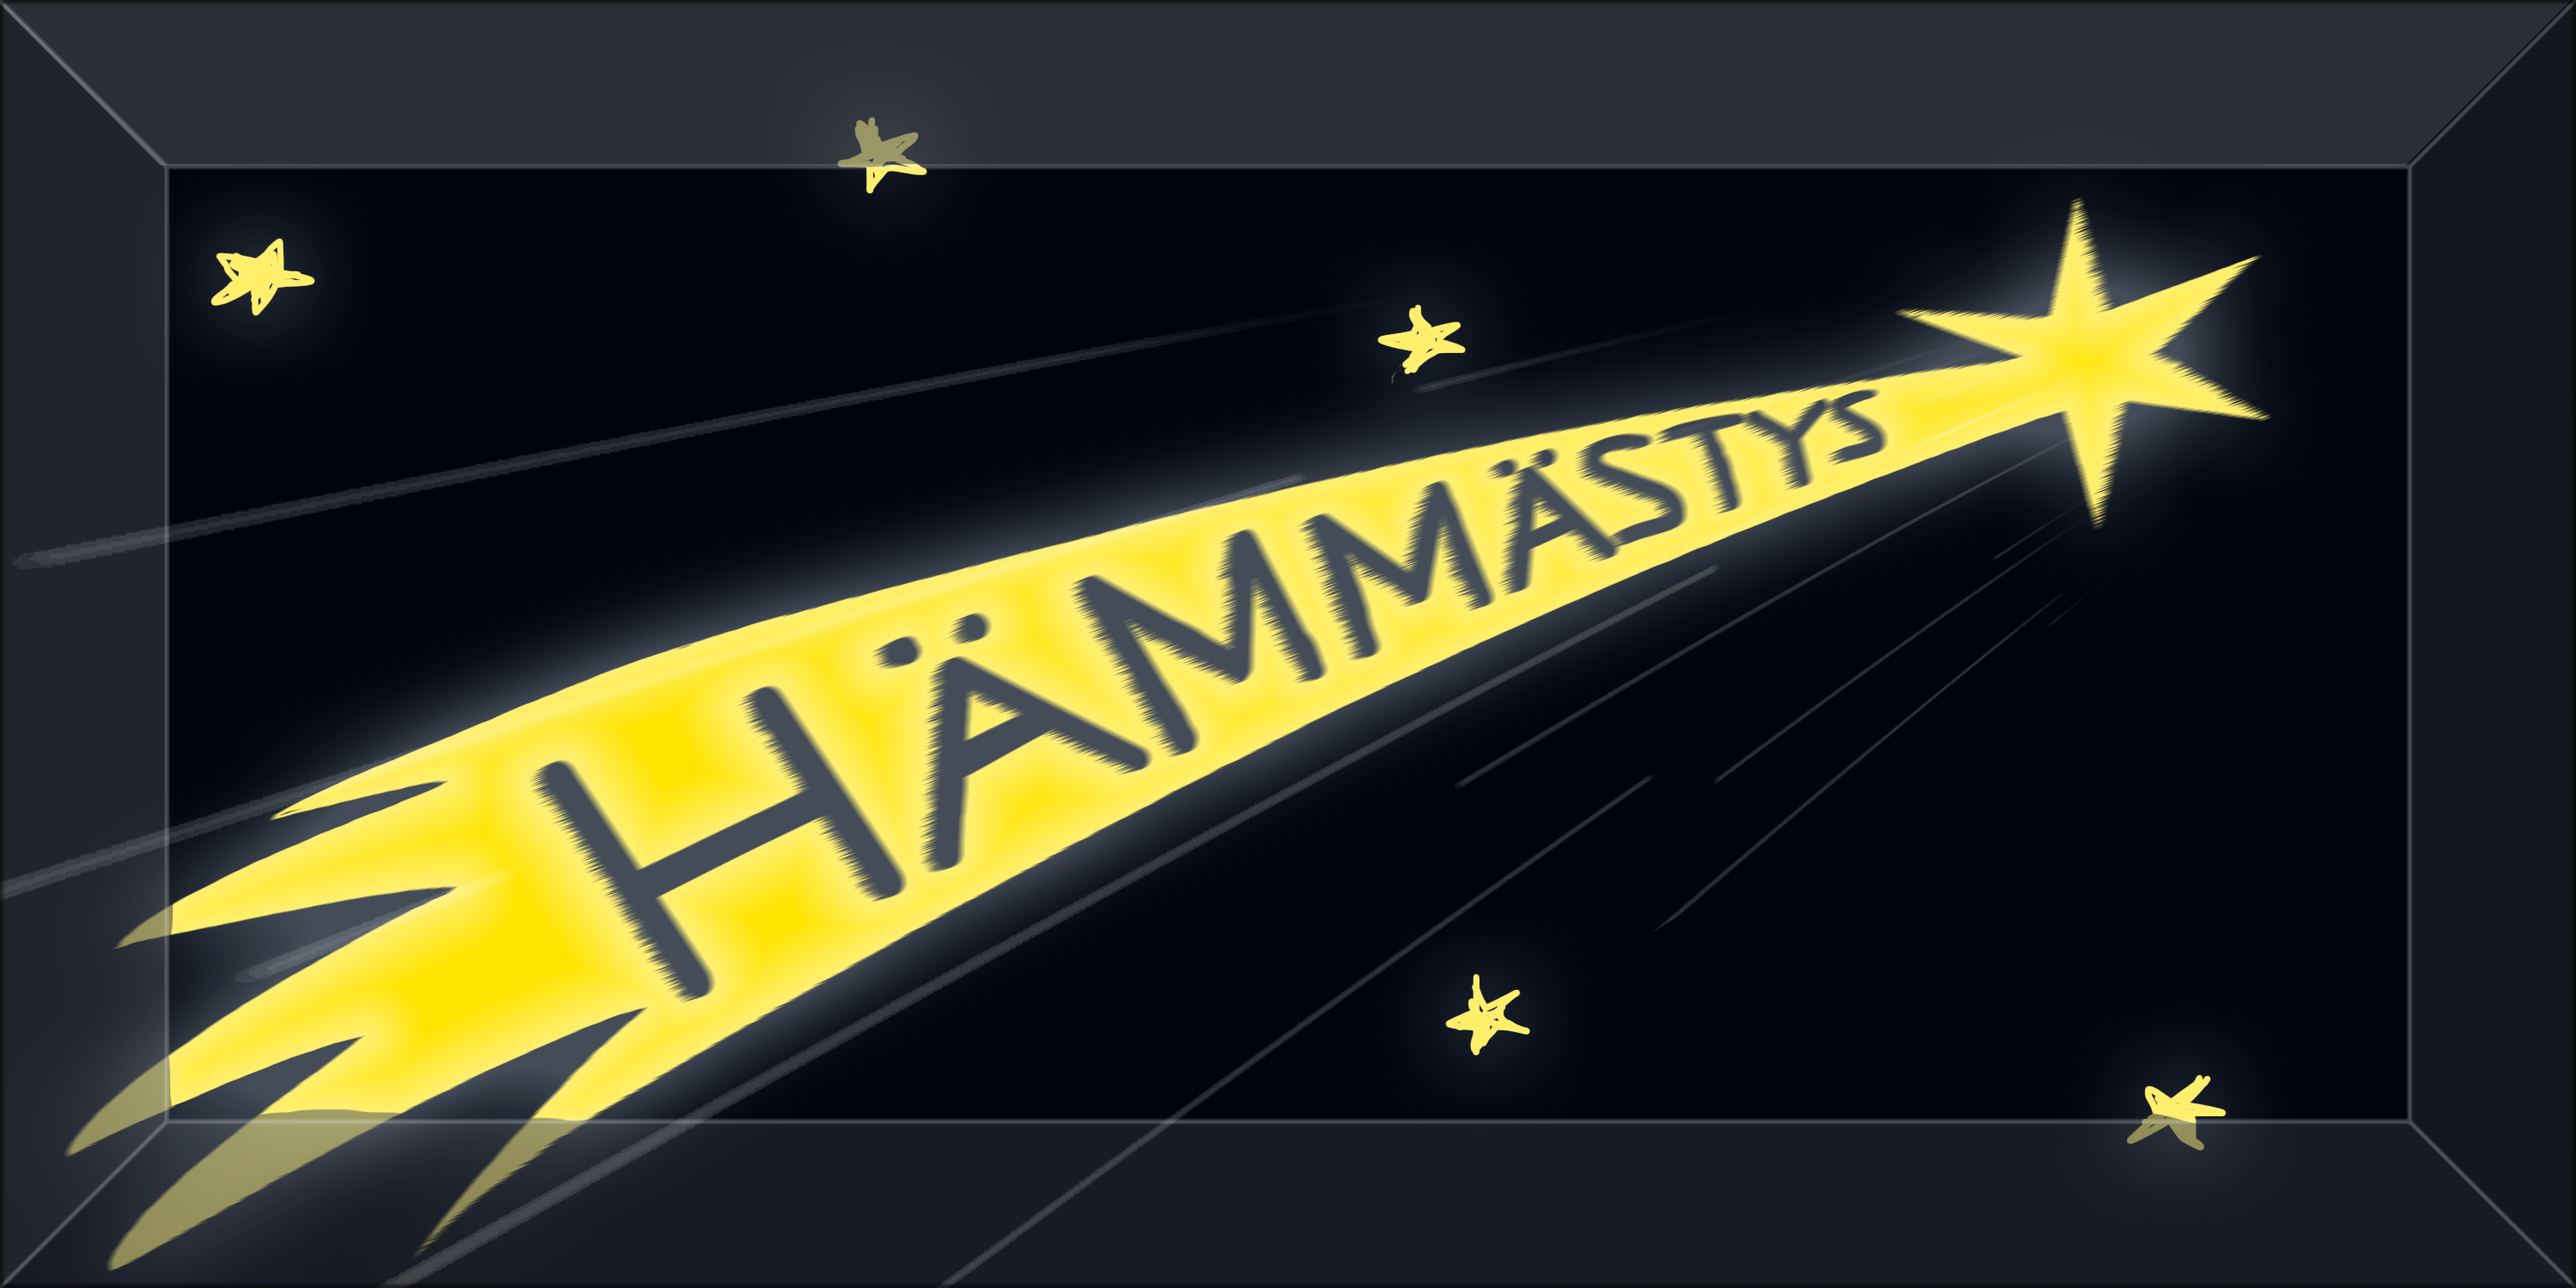
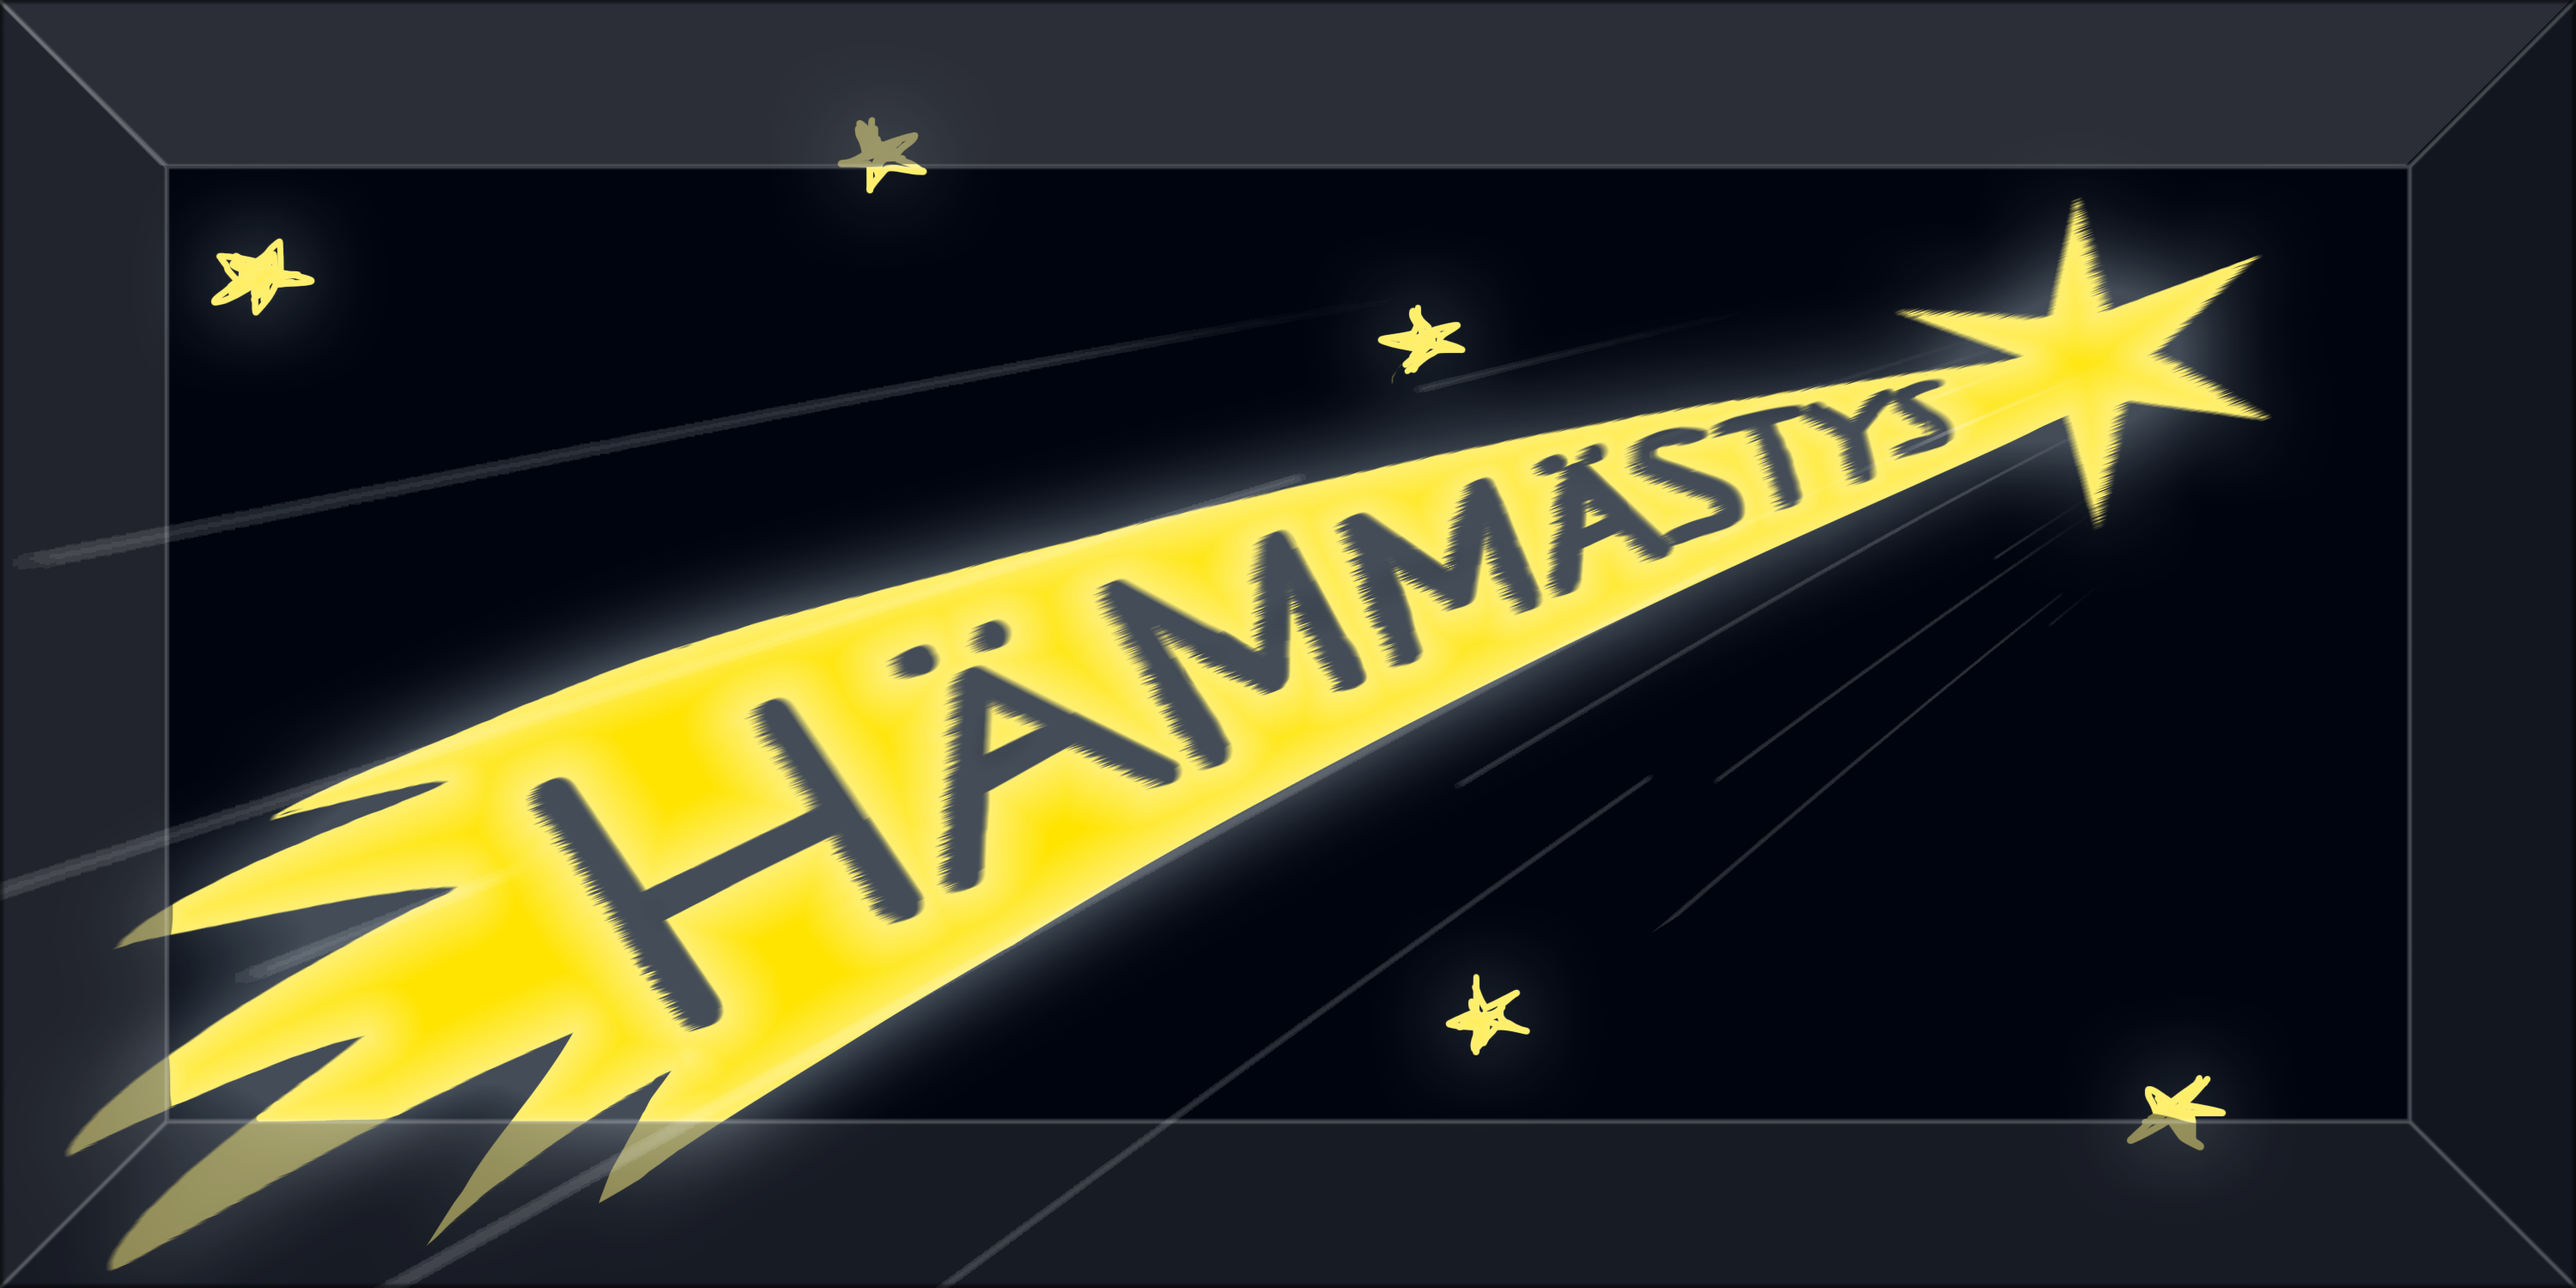
added finnish textures for the boxes

Changed region(s): [[0.186, 0.276, 0.806, 0.92], [0.279, 0.5213, 0.31, 0.5827], [0.093, 0.8587, 0.155, 0.8893]]

diff --git a/project/core/src/fi/tuni/tamk/TowerOfLife.java b/project/core/src/fi/tuni/tamk/TowerOfLife.java
@@ -188,16 +188,23 @@ public class TowerOfLife implements Screen {
         backdropGrass = new Texture(Gdx.files.internal("grass.png"));
         backdrop1 = new Texture(Gdx.files.internal("backdrop_1.png"));
         backdrop2 = new Texture(Gdx.files.internal("backdrop_2.png"));
-        anger = new Texture(Gdx.files.internal("em_anger.png"));
-        awe = new Texture(Gdx.files.internal("em_awe.png"));
-        if (host.locale.equals(new Locale("fi_FI"))) {
+        if (host.locale.equals(new Locale("fi", "FI"))) {
             awe = new Texture(Gdx.files.internal("em_awe_fi.png"));
+            anger = new Texture(Gdx.files.internal("em_anger_fi.png"));
+            fear = new Texture(Gdx.files.internal("em_fear_fi.png"));
+            hate = new Texture(Gdx.files.internal("em_hate_fi.png"));
+            joy = new Texture(Gdx.files.internal("em_joy_fi.png"));
+            love = new Texture(Gdx.files.internal("em_love_fi.png"));
+            sorrow = new Texture(Gdx.files.internal("em_sorrow_fi.png"));
+        } else {
+            anger = new Texture(Gdx.files.internal("em_anger.png"));
+            awe = new Texture(Gdx.files.internal("em_awe.png"));
+            fear = new Texture(Gdx.files.internal("em_fear.png"));
+            hate = new Texture(Gdx.files.internal("em_hate.png"));
+            joy = new Texture(Gdx.files.internal("em_joy.png"));
+            love = new Texture(Gdx.files.internal("em_love.png"));
+            sorrow = new Texture(Gdx.files.internal("em_sorrow.png"));
         }
-        fear = new Texture(Gdx.files.internal("em_fear.png"));
-        hate = new Texture(Gdx.files.internal("em_hate.png"));
-        joy = new Texture(Gdx.files.internal("em_joy.png"));
-        love = new Texture(Gdx.files.internal("em_love.png"));
-        sorrow = new Texture(Gdx.files.internal("em_sorrow.png"));
         scoreAdd = new Texture(Gdx.files.internal("scoreadd.png"));
         scoreMinus = new Texture(Gdx.files.internal("scoreminus.png"));
 
